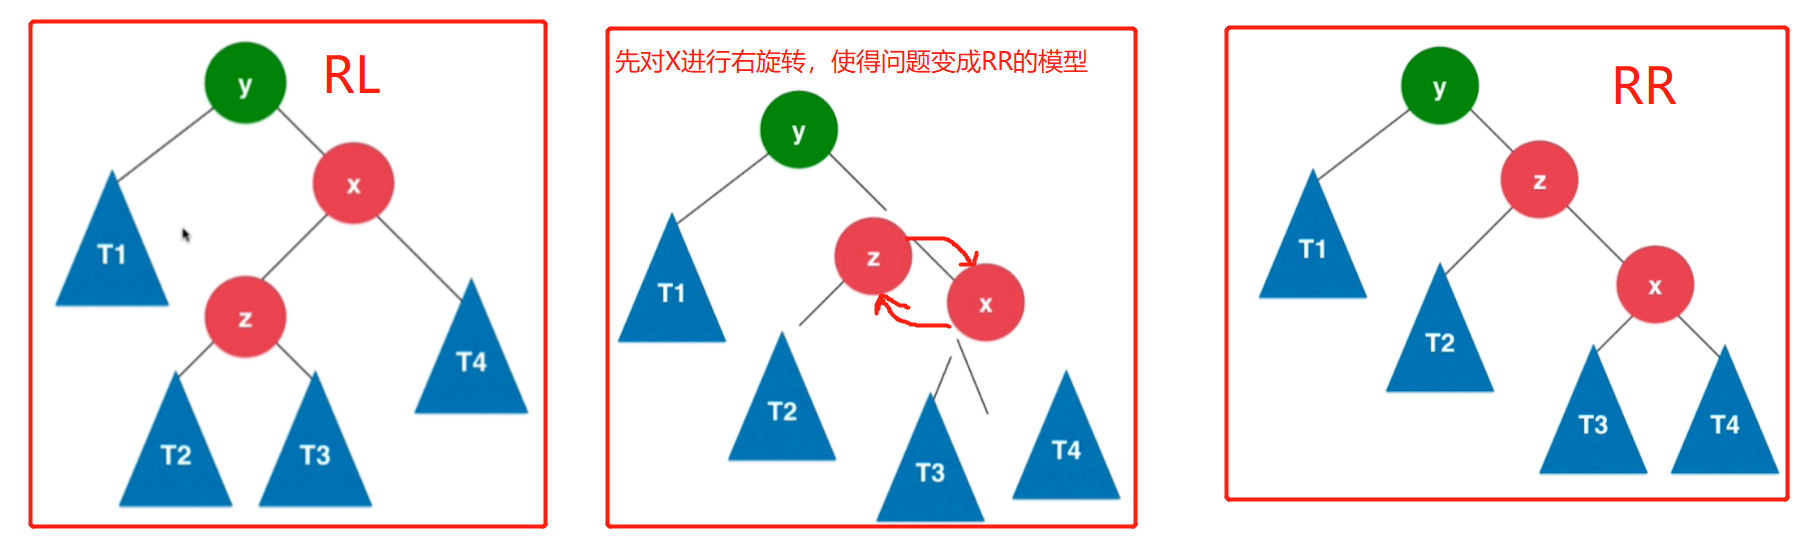
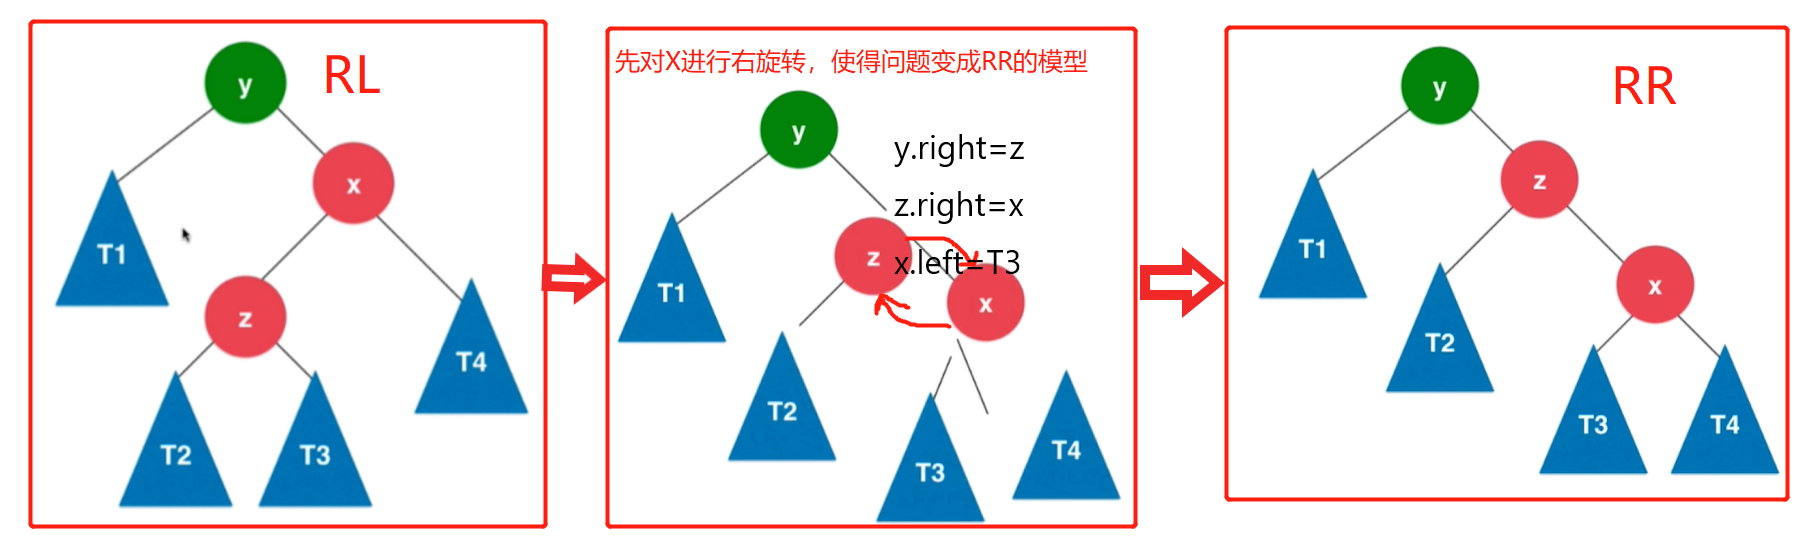
图片完善

diff --git a/Part2Basic/第12章_AVL平衡树.md b/Part2Basic/第12章_AVL平衡树.md
@@ -270,6 +270,8 @@ private Node add(Node node, K key, V val) {
 综上：LR问题的解决方案是先左旋转然后右旋转。LR转LL是左旋转，LL转平衡是右旋转
 
 ### 4.先右旋转再左旋转
+> 不平衡是因为在`从下往上首个不平衡点(绿色标出)`的右孩子的左侧新加入节点导致二叉树失衡，先右后左，所以叫RL
+
 >抽象模型如下图左边，不平衡是因为y的右孩子x的左侧`z及其子树`中多了新的节点
 ![右孩子的左侧插入新节点导致失衡](images/第12章_AVL平衡树/RL.png)
 
